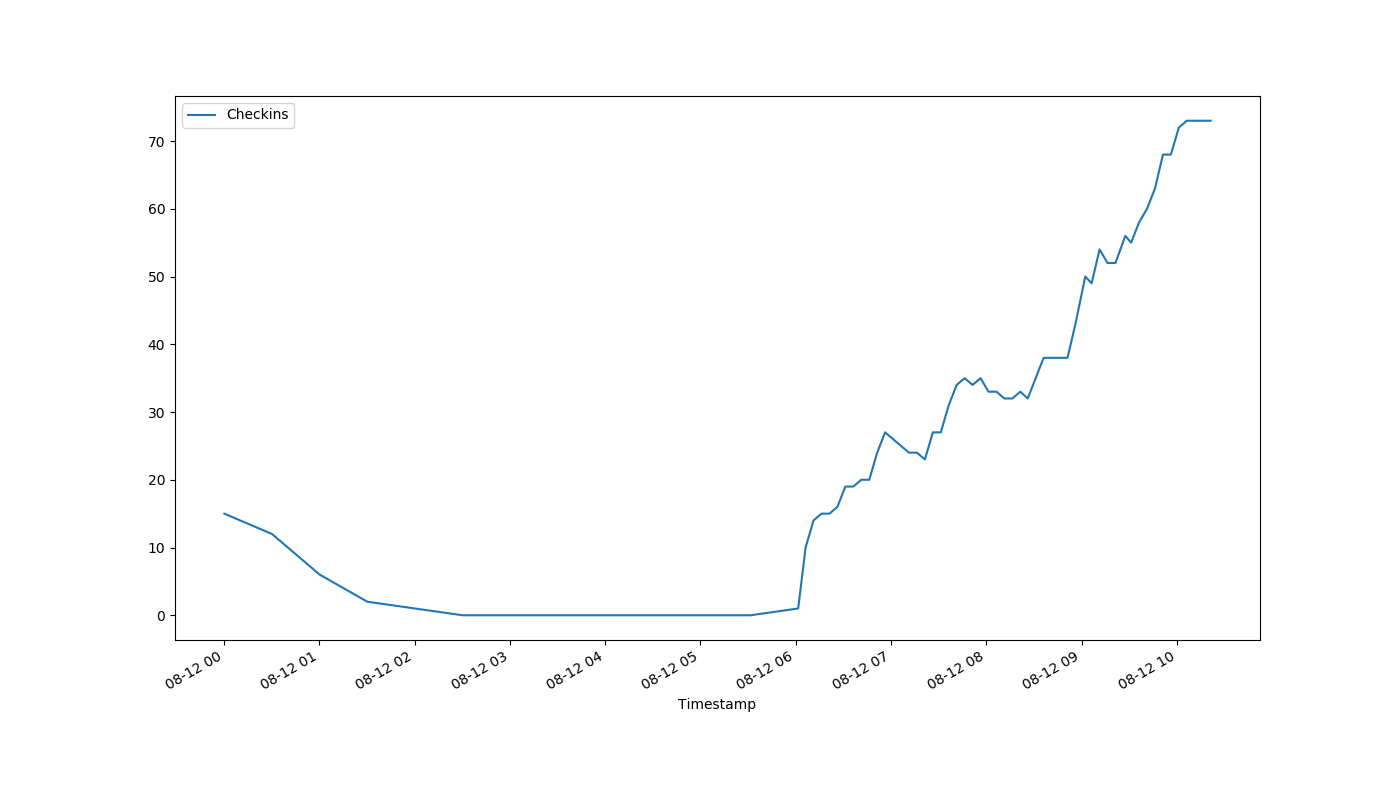
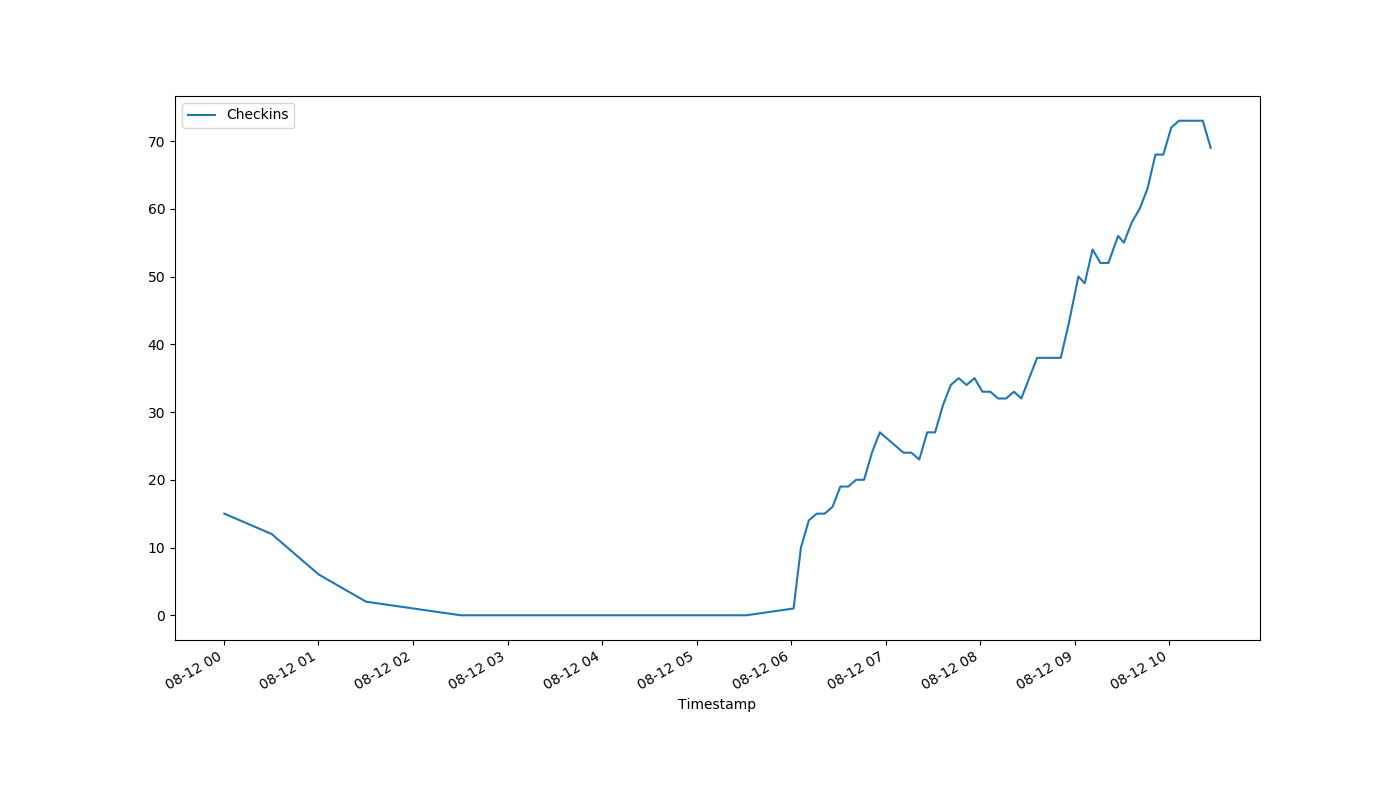
auto-Aug-12-10:27:46

diff --git a/index.html b/index.html
@@ -1,1 +1,1 @@
-<!DOCTYPE html><html><head><meta http-equiv="refresh" content="30"><link rel='stylesheet' href='holmcurrent.css'></head><body><p id='count'>73</p><div id='graph-wrap'><img id='graph' src='holmgraph-Aug-12.png'></div><p id='updated'>Last updated 10:22:00 / 10:21:09</p></body></html>
+<!DOCTYPE html><html><head><meta http-equiv="refresh" content="30"><link rel='stylesheet' href='holmcurrent.css'></head><body><p id='count'>69</p><div id='graph-wrap'><img id='graph' src='holmgraph-Aug-12.png'></div><p id='updated'>Last updated 10:27:00 / 10:26:09</p></body></html>
